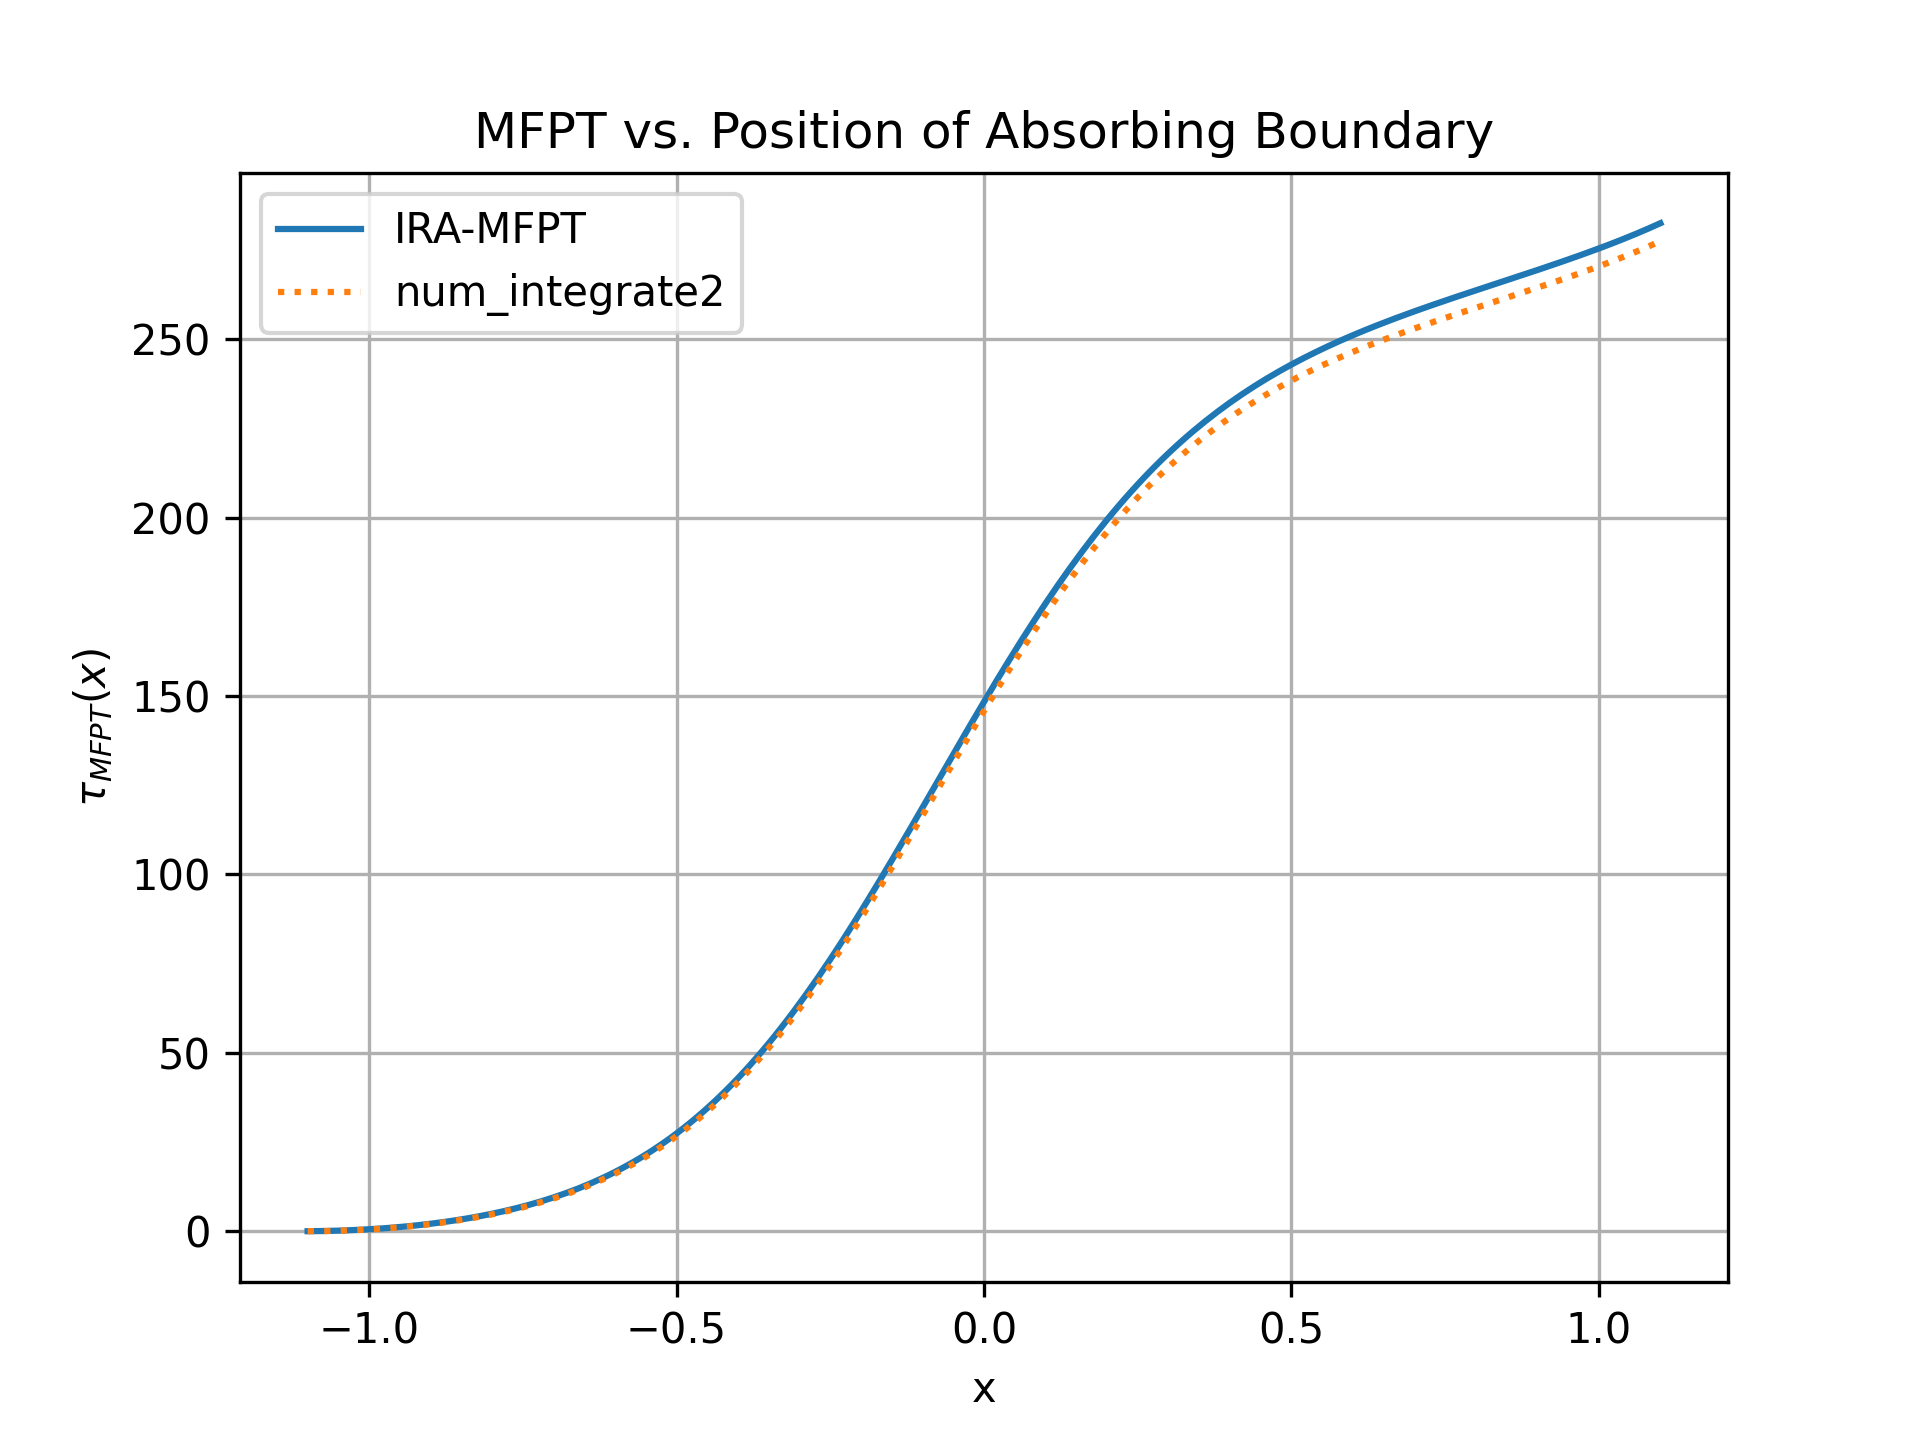
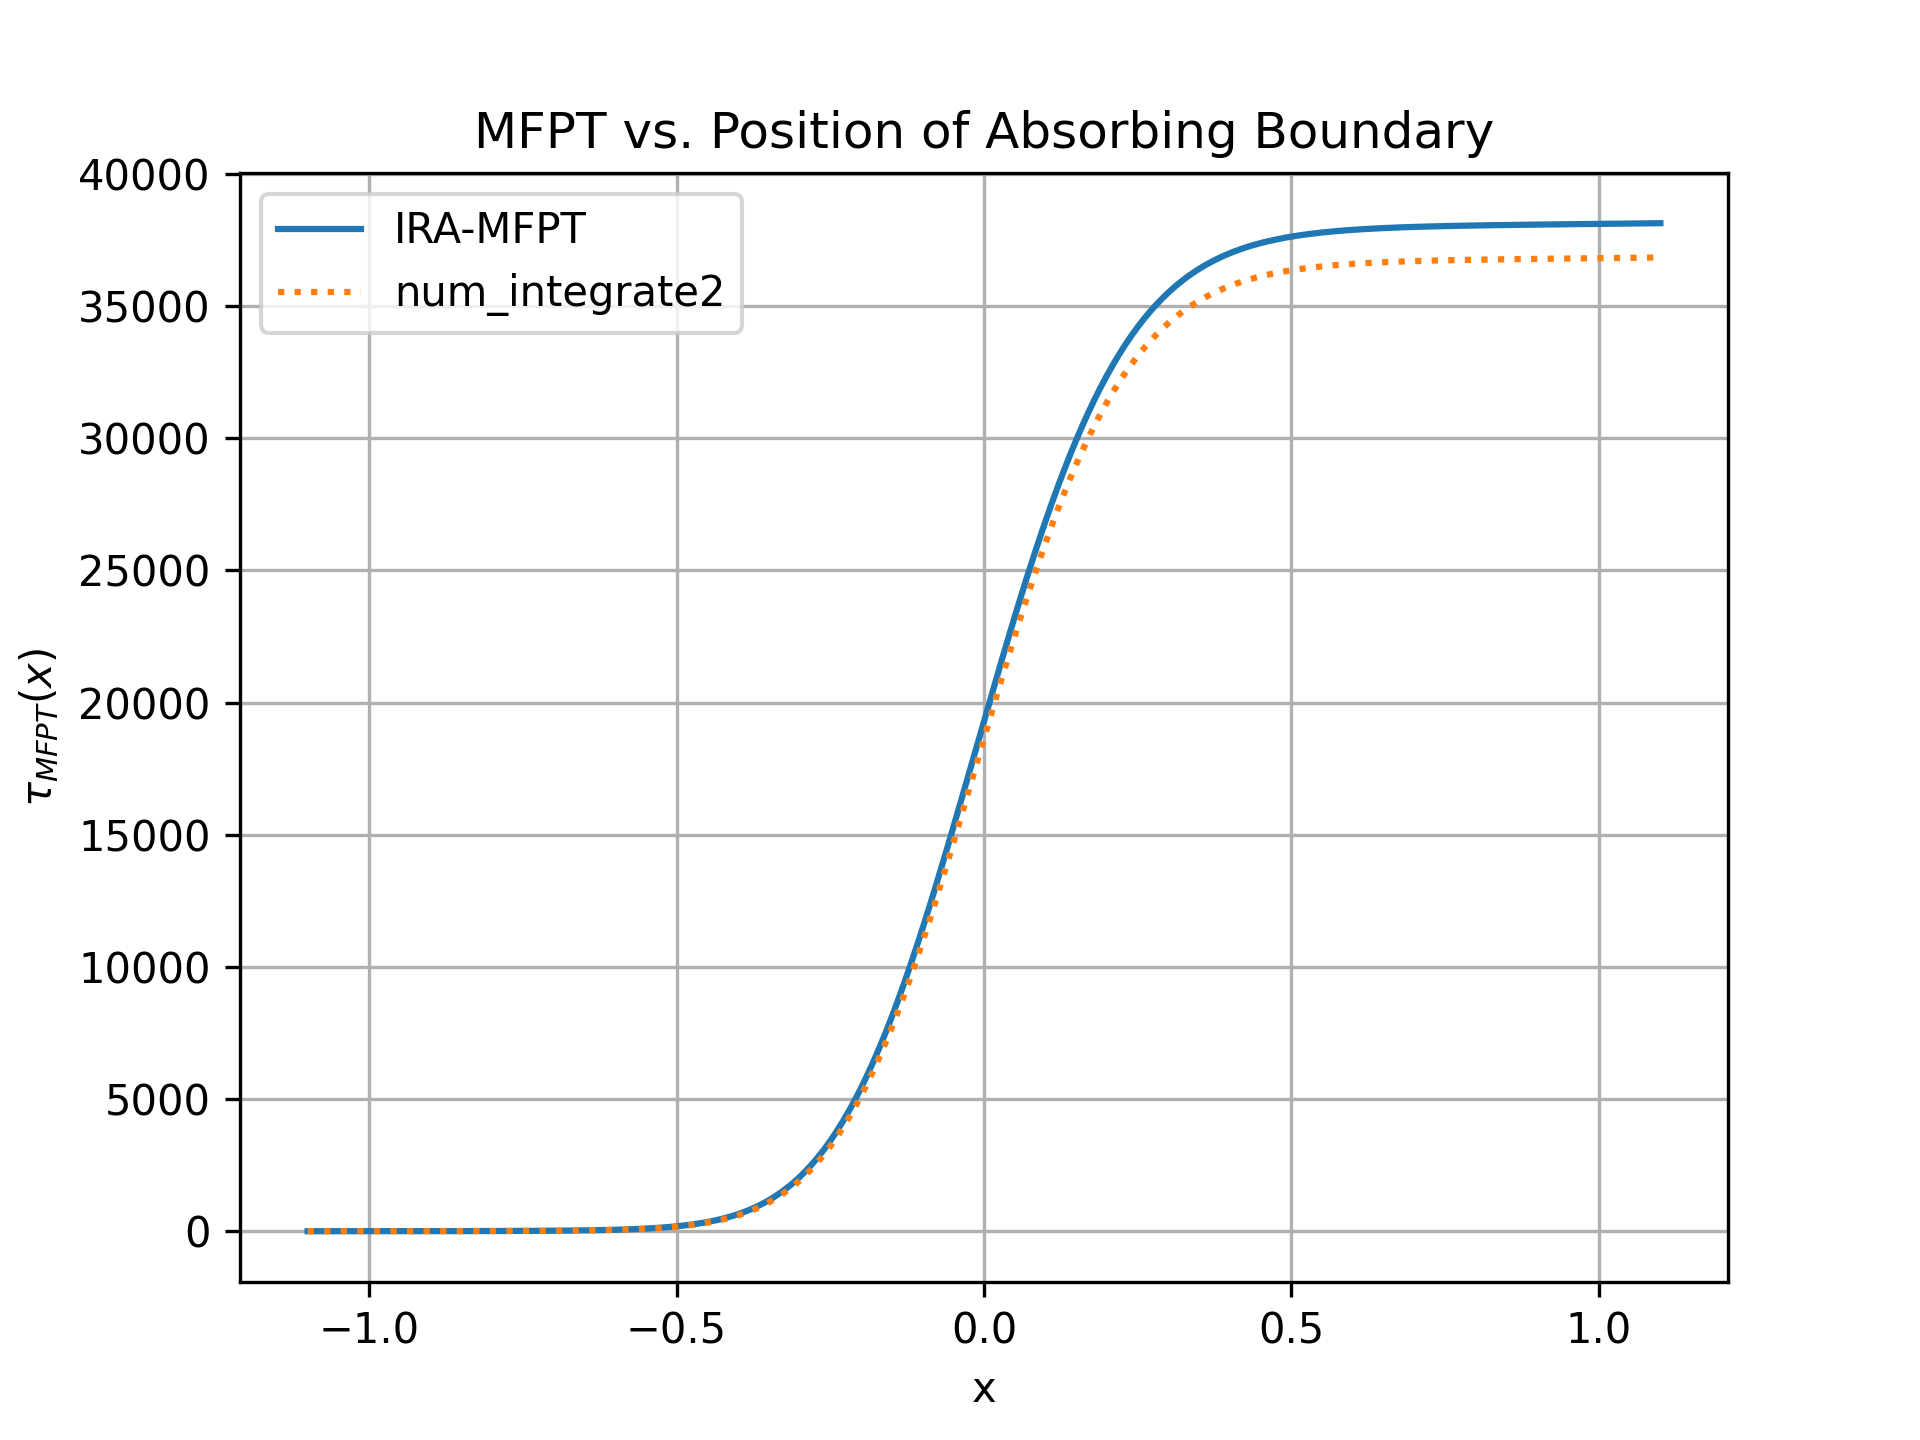
Reguera method simulation script, data, and graphs for random walk with medium energy barrier

diff --git a/Reguera_method/Random_walk_Model/reguera_reconst_simulation.py b/Reguera_method/Random_walk_Model/reguera_reconst_simulation.py
@@ -6,8 +6,8 @@ from scipy.integrate import quad
 from scipy.interpolate import interp1d, PchipInterpolator, CubicSpline
 
 # Define the double-well potential using two Gaussian functions
-def double_gaussian_potential(x, A1=3, mu1=-1, sigma1=0.5, A2=4, mu2=1, sigma2=0.6):
-# def double_gaussian_potential(x, A1=12, mu1=-1, sigma1=0.5, A2=10, mu2=1, sigma2=0.6):
+# def double_gaussian_potential(x, A1=3, mu1=-1, sigma1=0.5, A2=4, mu2=1, sigma2=0.6):
+def double_gaussian_potential(x, A1=12, mu1=-1, sigma1=0.5, A2=10, mu2=1, sigma2=0.6):
 # def double_gaussian_potential(x, A1=30, mu1=-1, sigma1=0.5, A2=25, mu2=1, sigma2=0.6):
     V1 = A1 * np.exp(-((x - mu1)**2) / (2 * sigma1**2))
     V2 = A2 * np.exp(-((x - mu2)**2) / (2 * sigma2**2))
